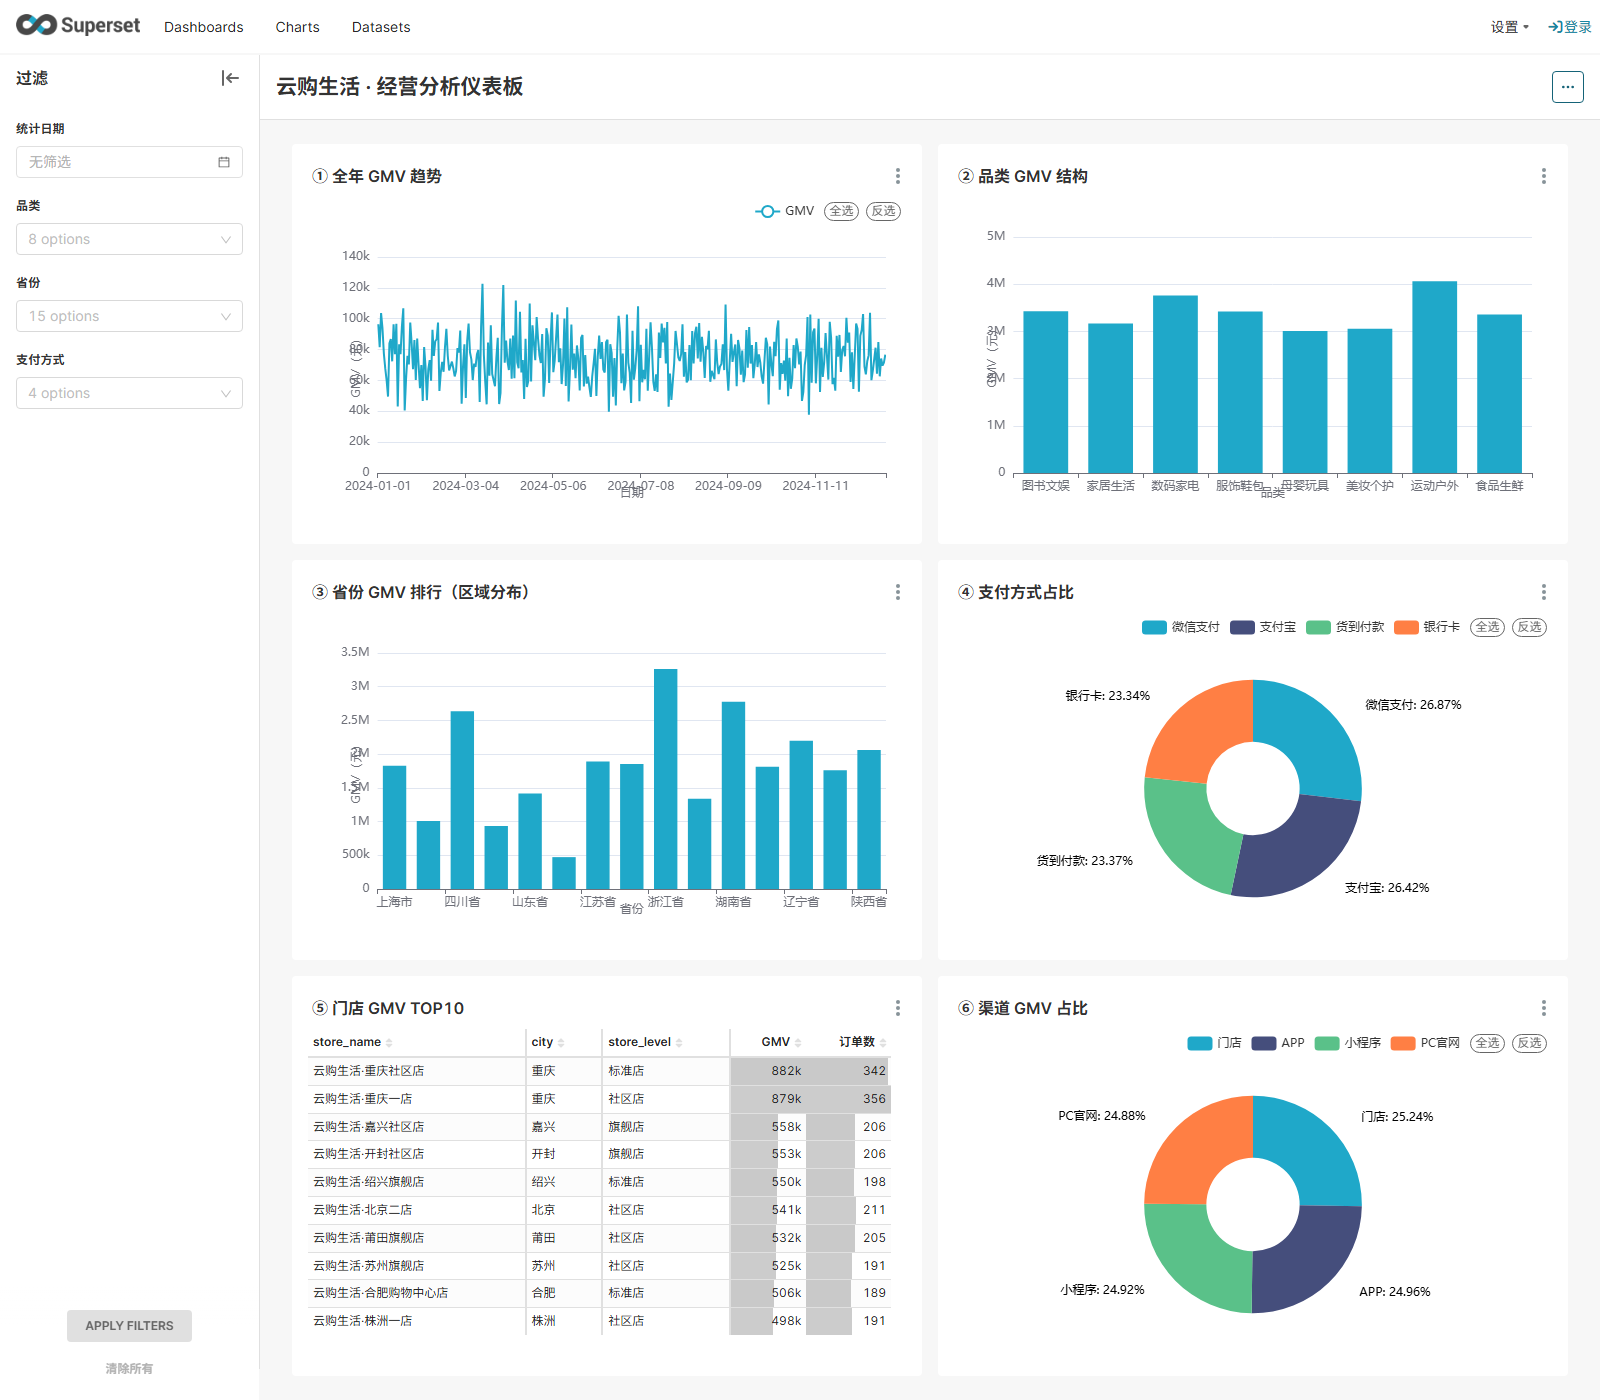
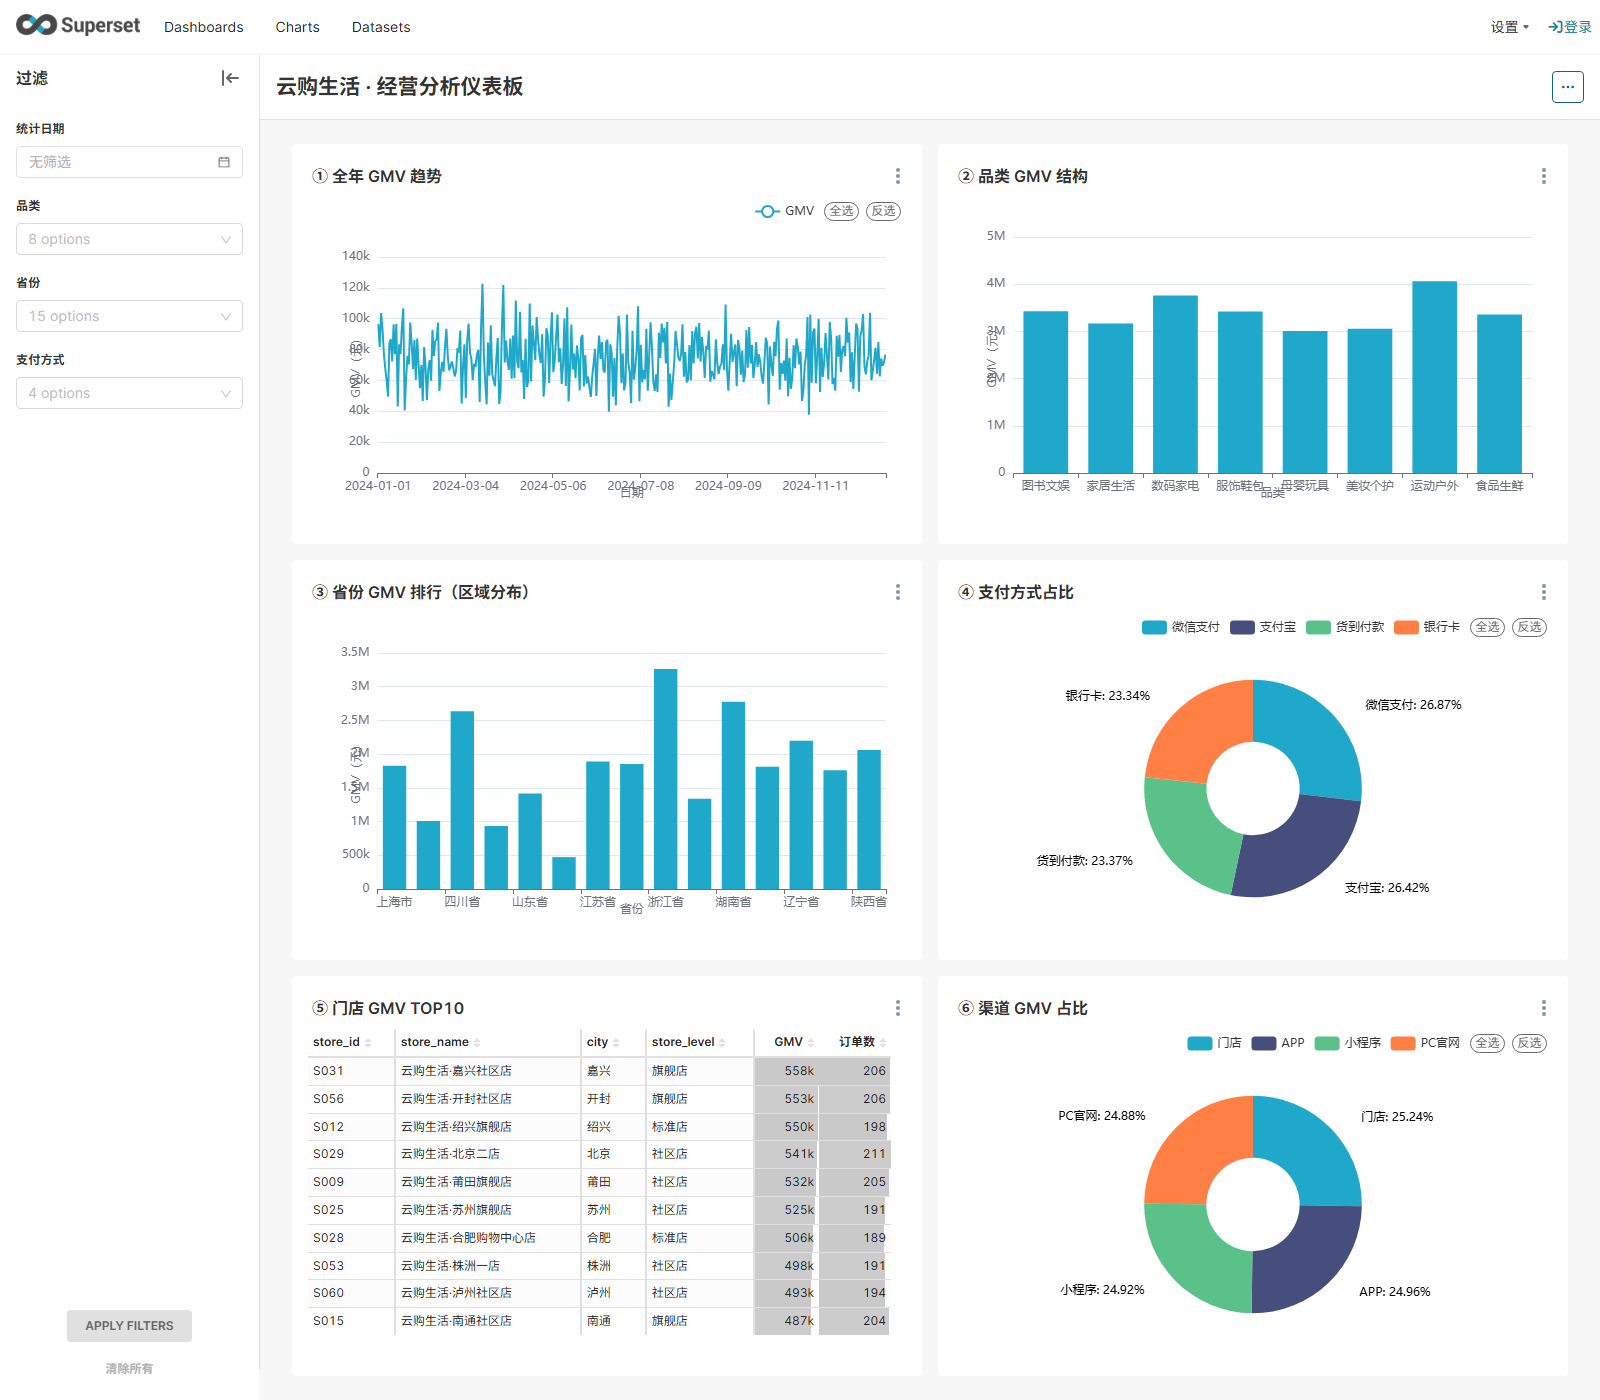
fix(superset): 门店表分组补 store_id，避免同名门店被合并
dim_store 有 60 家店但只有 52 个不同店名（同名不同址，如两个北京二店），
只按 store_name 分组会把两家店合并，门店 GMV 从 56 万虚高到 88 万、排名也错。
带上 store_id 后第一名 S031 / 55.8 万 / 206 单，与原 ADS 门店表（56.0 万 / 207 单）
只差 0.3%，差额来自少量商品在主数据里缺失。

Changed region(s): [[0.1875, 0.7371, 0.5625, 0.9521]]

diff --git a/apps/superset/provision.py b/apps/superset/provision.py
@@ -121,7 +121,10 @@ CHARTS = [
         "viz_type": "table",
         "params": {
             "viz_type": "table", "query_mode": "aggregate",
-            "groupby": ["store_name", "city", "store_level"],
+            # 必须带 store_id：dim_store 有 60 家店但只有 52 个不同店名
+            # （同名不同址，如两个"北京二店"），只按店名分组会把两家店合成一家，
+            # 门店 GMV 直接从 56 万虚高到 88 万。
+            "groupby": ["store_id", "store_name", "city", "store_level"],
             "metrics": ["GMV", "订单数"],
             "order_by_cols": ['["GMV", false]'],
             "row_limit": 10, "time_range": "No filter", "adhoc_filters": [],
